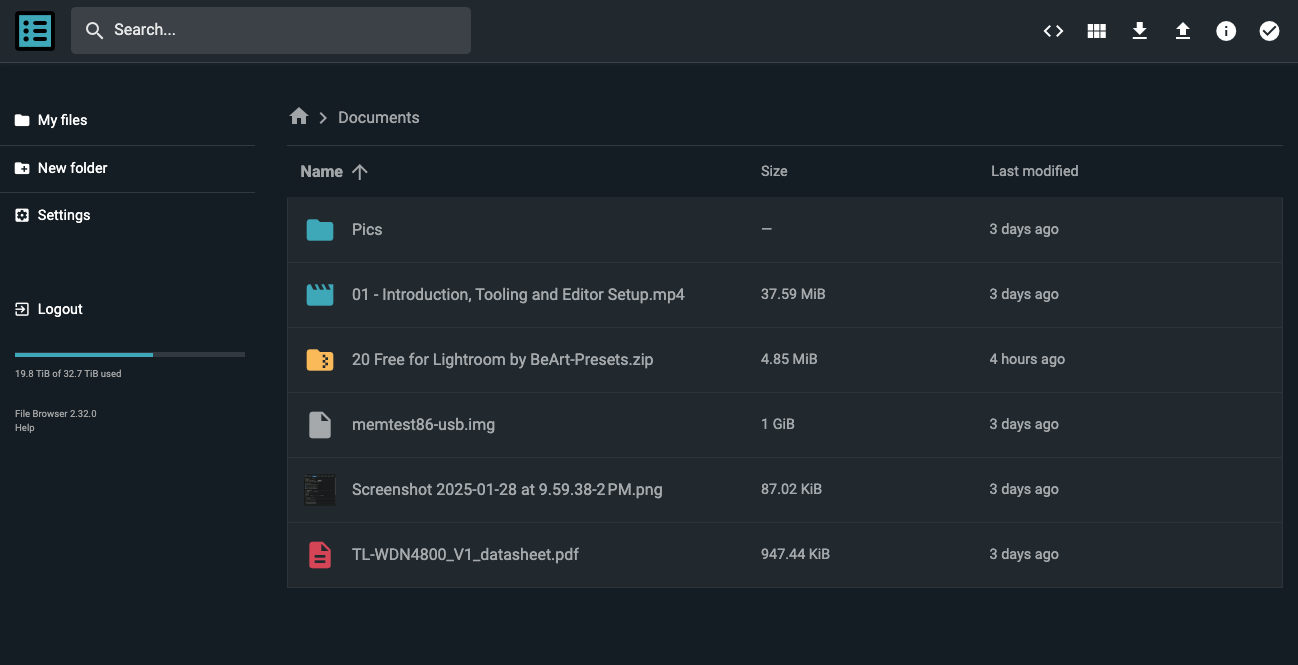
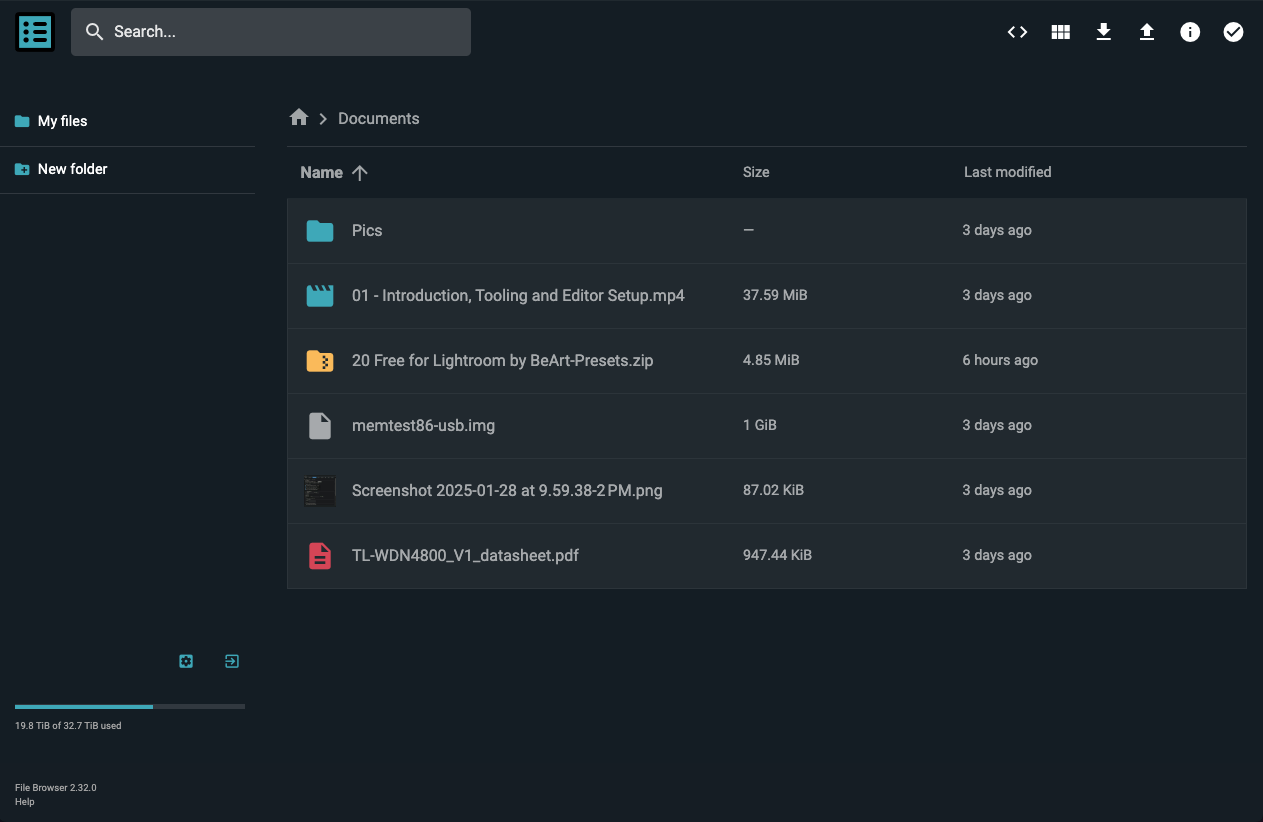
surpress settings and logout buttons, update screenshot

diff --git a/custom.css b/custom.css
@@ -11,7 +11,10 @@ header {
 }
 
 nav {
-  top: 6.2em
+  height: 90%;
+  top: 6.2em;
+  display: flex;
+  flex-direction: column;
 }
 
 @media (max-width: 736px) {
@@ -25,7 +28,8 @@ nav .action {
 }
 
 nav .material-icons {
-  font-size: 1.1rem
+  font-size: 1.1rem;
+  color: var(--blue);
 }
 
 nav button.action[aria-label="My files"] {
@@ -34,10 +38,6 @@ nav button.action[aria-label="My files"] {
 
 nav button.action[aria-label="New file"] {
   display: none
-}
-
-nav button.action[aria-label="Logout"] {
-  margin-top: 3rem;
 }
 
 nav .credits .vue-simple-progress {
@@ -50,6 +50,21 @@ nav .credits .vue-simple-progress-bar {
 
 nav .credits {
   margin: 2em 2.5em 3em 1rem !important
+}
+
+nav > div:nth-of-type(2) {
+  display: flex;
+  justify-content: end;
+  flex-grow: 1;
+  align-items: end;
+}
+
+nav > div:nth-of-type(2) span {
+  display: none
+}
+
+nav > div:nth-of-type(2) button {
+  width: auto;
 }
 
 main {
